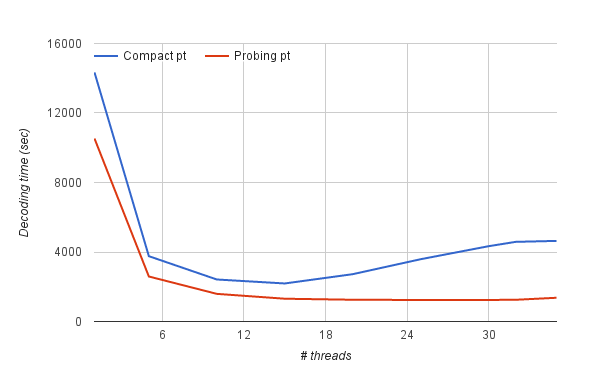
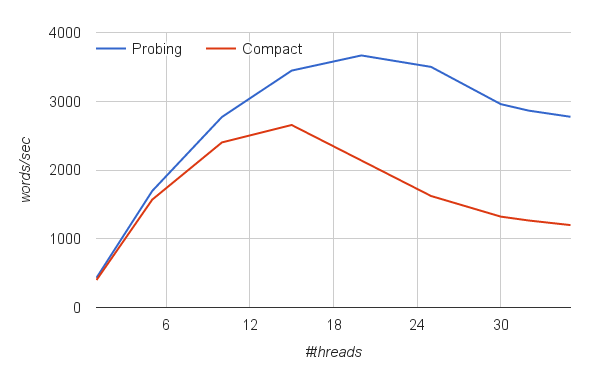
oov penalty

diff --git a/acl.2016/acl2016.tex b/acl.2016/acl2016.tex
@@ -180,13 +180,13 @@ We shall re-visit the question of stack configuration with a particular emphasis
 
 \subsection{Phrase-Table Optimizations}
 
-For any phrase-table table of a realistic size, memory and loading time constraints requires us to use a load-on-demand implementation. Moses has several which we can make use of, each with differing performance characteristics. Figure~\ref{fig:moses-phrase-tables-time} shows the time taken to decode 800,000 sentences for the fastest two implementations.
+For any phrase-table table of a realistic size, memory and loading time constraints requires us to use a load-on-demand implementation. Moses has several which we can make use of, each with differing performance characteristics. Figure~\ref{fig:moses-phrase-tables-time} shows the decoding speed for the fastest two implementations.
 \begin{figure}[h]
 \centering
 \begin{tabular}{cc}
 {\includegraphics[scale=0.4]{moses-phrase-table.png}} 
 \end{tabular}
-\caption{Moses decoding time with two different phrase-table implementations}
+\caption{Moses decoding speed with two different phrase-table implementations}
 \label{fig:moses-phrase-tables-time}
 \end{figure} 
 From this, it appears that the Probing phrase-table~\cite{Bogoychev.probing.2016} has the fastest translation rule lookup, especially with large number of cores, therefore, we will concentrate exclusively on this implementation from hereon.
@@ -197,10 +197,10 @@ We propose two optimizations. Firstly, the translation rule caching mechanism in
 \begin{center}
 \begin{tabular}{|l|c|c|} \hline
 		& No cache	& Caching \\ \hline
-Decoding time  	& 2032 		& 2302 (+13\%) \\ \hline
+Decoding time  	& 2877	& 2540 (-12\%) \\ \hline
 \end{tabular}
 \end{center}
-\caption{Decoding time (in sec with 32 threads) when using phrase-table cache}
+\caption{Decoding speed (in words / sec with 32 threads) when using phrase-table cache}
 \label{tab:phrase-table-cache}
 \end{table}
 
@@ -289,7 +289,7 @@ Misc/Unknown	& 45\%	 	& 39\% 	& 24\%		& 29\% \\ \hline
 \label{tab:optimizing-memory}
 \end{table}
 
-Figure~\ref{fig:mempool} compares the decoding time for Moses and our decoder, using the same models, parameters and test set. Our decoder is over 3 times faster with one thread, and 4.7 times faster using all cores. Like Moses, performance actually worsens after approximately 15 threads, however, the problem is not as pronounced. This gives us a better foundation on which to build further innovations for fast, multi-core decoding.
+Figure~\ref{fig:mempool} compares the decoding speed for Moses and our decoder, using the same models, parameters and test set. Our decoder is over 3 times faster with one thread, and 4.7 times faster using all cores. Like Moses, performance actually worsens after approximately 15 threads, however, the problem is not as pronounced. This gives us a better foundation on which to build further innovations for fast, multi-core decoding.
 \begin{figure}[h]
 \centering
 \begin{tabular}{cc}
